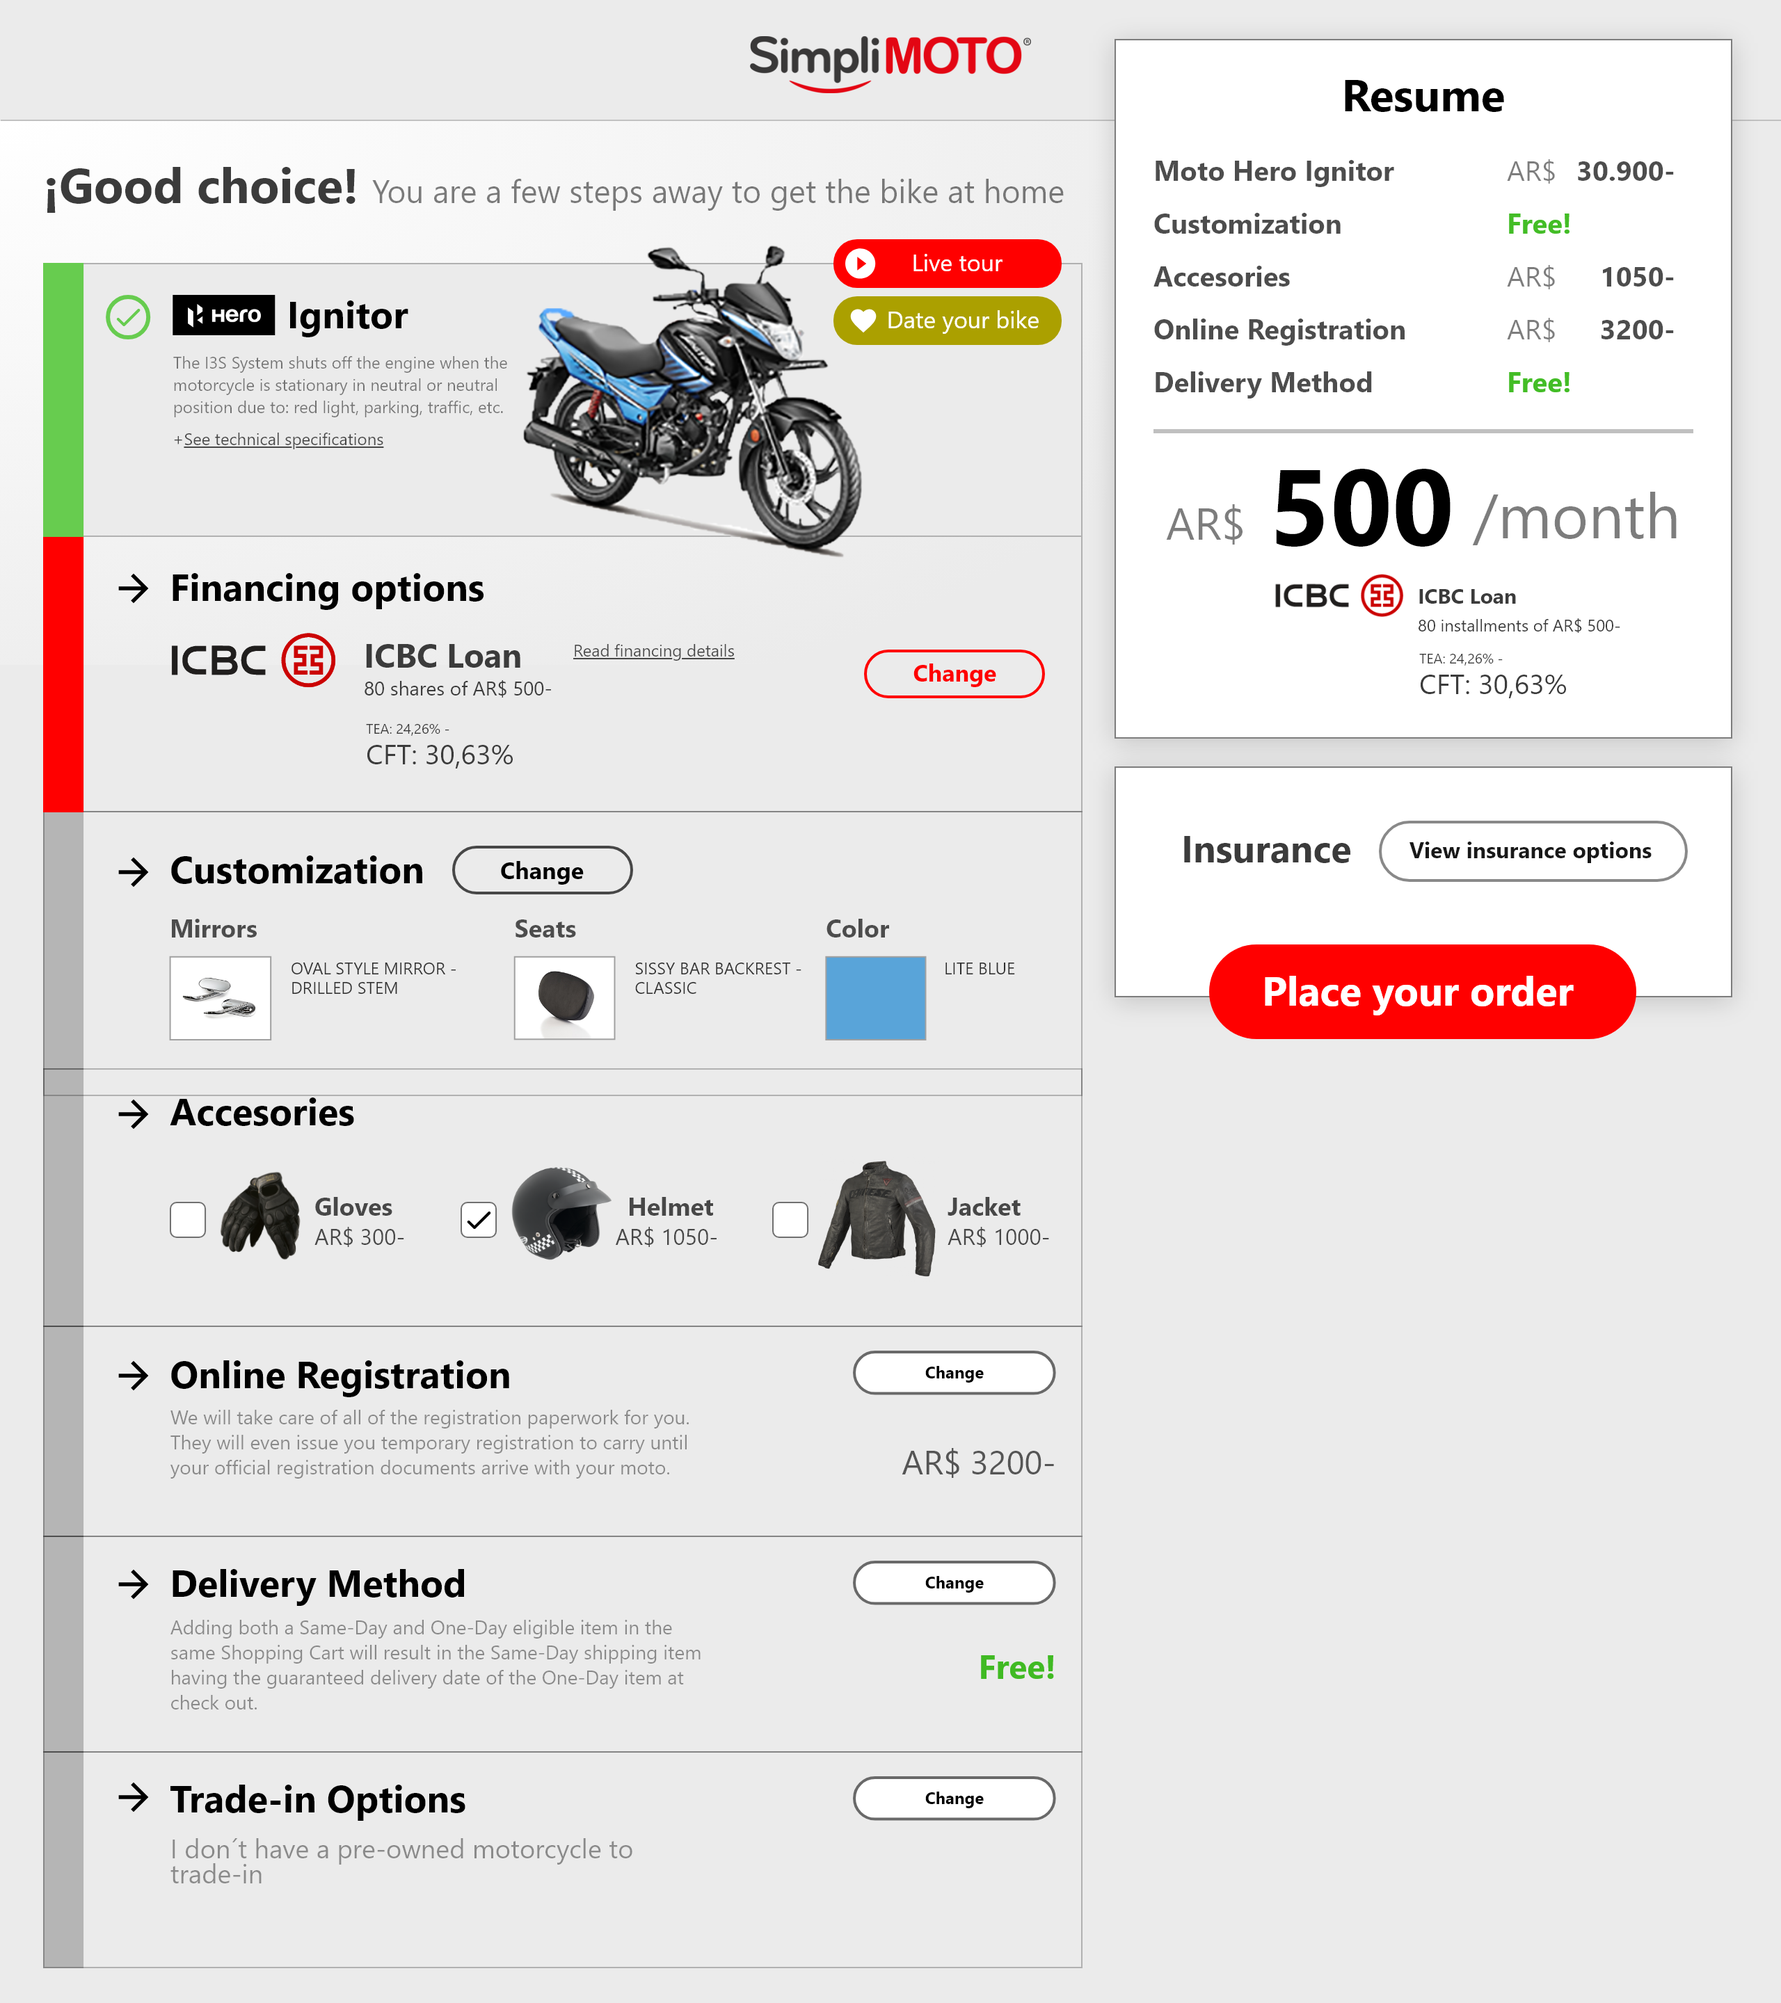
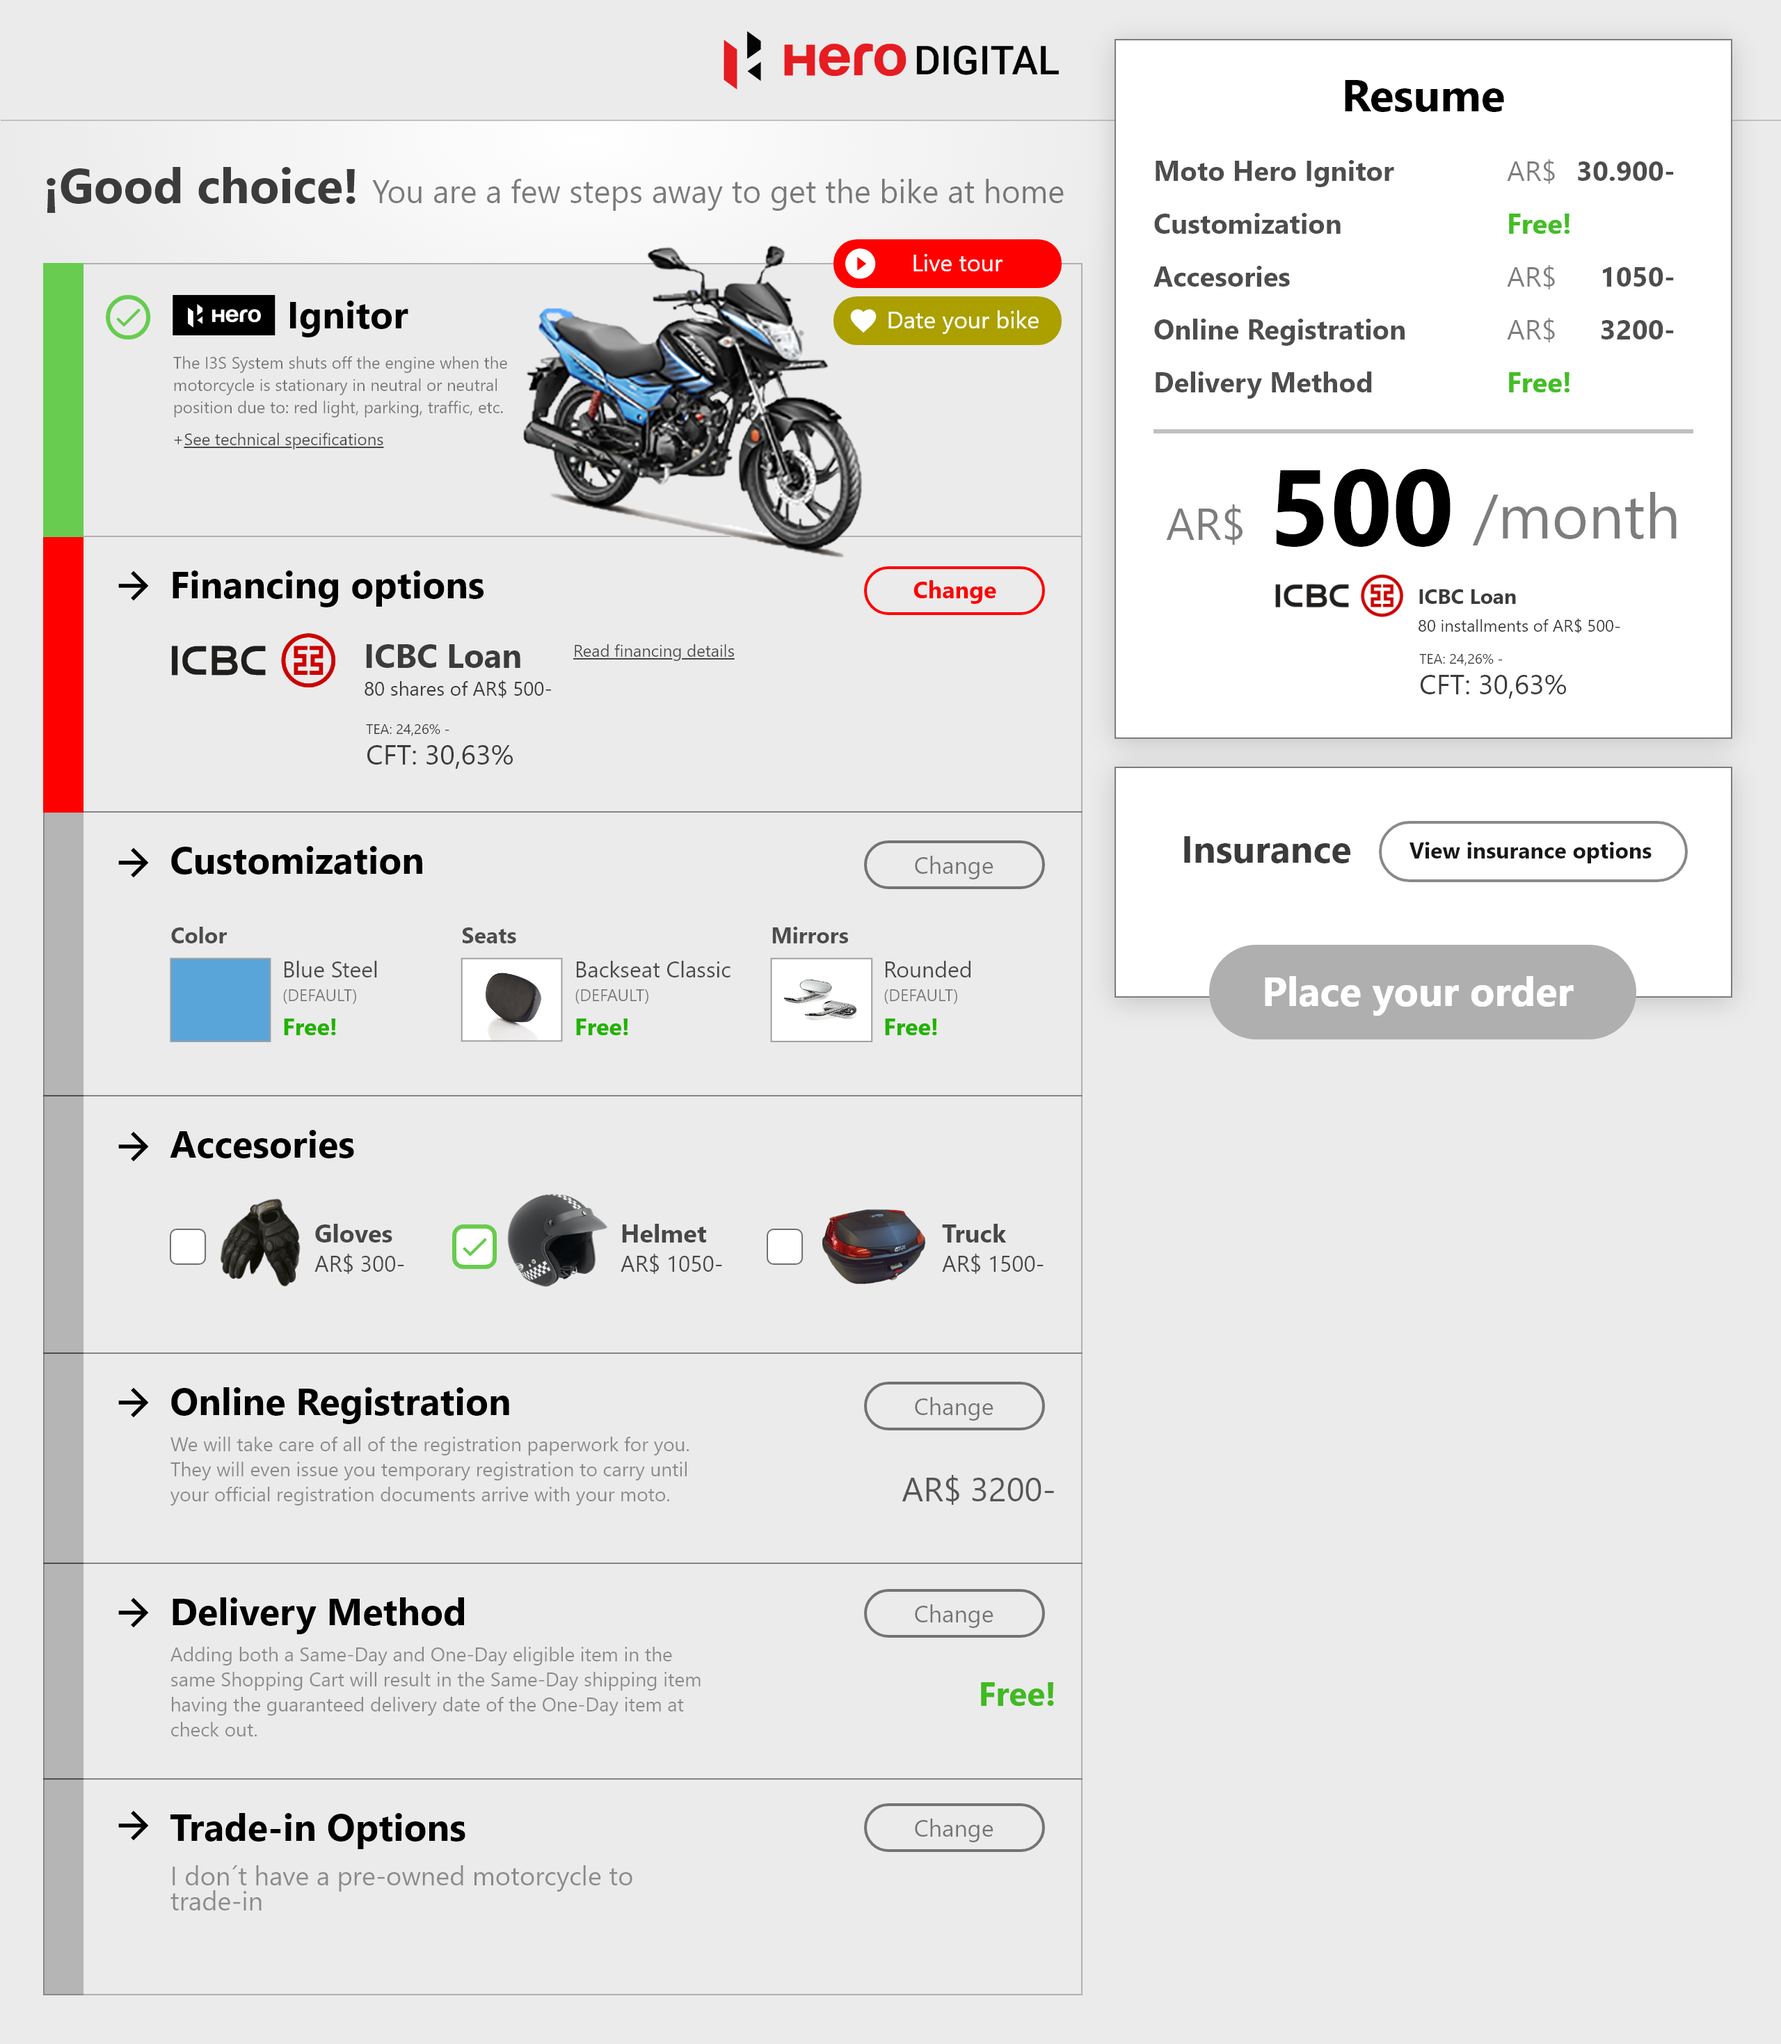
Routing between different dashboards

diff --git a/src/components/ImagePages/Dashboard01IMGPage.jsx b/src/components/ImagePages/Dashboard01IMGPage.jsx
@@ -4,28 +4,30 @@ import { Link } from 'react-router-dom';
 import imageUrl from './Dashboard01@2x.png';
 import IMGPage from './IMGPage';
 
+// In this dashboard no step is completed
+
 class Dashboard01IMGPage extends Component {
   render() {
     return (
       <IMGPage imgUrl={imageUrl}>
         <Link
-          to="customization-img"
-          style={{
-            position: 'absolute',
-            width: '145.83px',
-            height: '31.81px',
-            top: '602px',
-            left: '618px',
-          }}
-        />
-        <Link
-          to="dateyourbike-img"
+          to="livetour-img"
           style={{
             position: 'absolute',
             width: '172px',
             height: '37px',
-            top: '222px',
+            top: '180px',
             left: '626px',
+          }}
+        />
+        <Link
+          to="financing-img"
+          style={{
+            position: 'absolute',
+            width: '137px',
+            height: '39px',
+            top: '424px',
+            left: '649px',
           }}
         />
       </IMGPage>

diff --git a/src/components/App.jsx b/src/components/App.jsx
@@ -19,6 +19,7 @@ import DateYourBikeIMGPage from './ImagePages/DateYourBikeIMGPage';
 import LiveTourPresenterPage from './LiveTourPage/LiveTourPresenterPage';
 import LiveTourUserPage from './LiveTourPage/LiveTourUserPage';
 import BikeSentIMGPage from './ImagePages/BikeSentIMGPage';
+import Dashboard02IMGPage from './ImagePages/Dashboard02IMGPage';
 
 class App extends React.Component {
   render() {
@@ -30,6 +31,7 @@ class App extends React.Component {
           <Route path="/customization" component={CustomizationPage} />
           <Route path="/customization-img" component={CustomizationIMGPage} />
           <Route path="/dashboard-img" component={Dashboard01IMGPage} />
+          <Route path="/dashboard2-img" component={Dashboard02IMGPage} />
           <Route path="/home-img" component={HomeIMGPage} />
           <Route path="/financing-img" component={FinancingIMGPage} />
           <Route path="/financing-loading-img" component={FinancingIMGLoadingPage} />

diff --git a/src/components/ImagePages/FinancingIMGLoadingPage.jsx b/src/components/ImagePages/FinancingIMGLoadingPage.jsx
@@ -1,6 +1,7 @@
 import React, { Component } from 'react';
 import propTypes from 'prop-types';
 import { connect } from 'react-redux';
+import { Link } from 'react-router-dom';
 import { push } from 'react-router-redux';
 import imageUrl from './FinancingLoading.png';
 import IMGPage from './IMGPage';
@@ -32,6 +33,16 @@ class FinancingIMGLoadingPage extends Component {
             top: 300,
             left: 562,
             width: 200,
+          }}
+        />
+        <Link // cancel and go back to dashboard
+          to="/dashboard-img"
+          style={{
+            position: 'absolute',
+            width: '328px',
+            height: '42px',
+            left: '32px',
+            top: '20px',
           }}
         />
       </IMGPage>

diff --git a/src/components/ImagePages/FinancingIMGOptionsPage.jsx b/src/components/ImagePages/FinancingIMGOptionsPage.jsx
@@ -8,13 +8,23 @@ class FinancingIMGOptionsPage extends Component {
     return (
       <IMGPage imgUrl={imageUrl}>
         <Link
-          to="/dashboard-img"
+          to="/dashboard2-img"
           style={{
             position: 'absolute',
             width: '417px',
             height: '60px',
             top: '708px',
             left: '461px',
+          }}
+        />
+        <Link // cancel and go back to dashboard
+          to="/dashboard-img"
+          style={{
+            position: 'absolute',
+            width: '328px',
+            height: '42px',
+            left: '32px',
+            top: '20px',
           }}
         />
       </IMGPage>

diff --git a/src/components/ImagePages/Dashboard02IMGPage.jsx b/src/components/ImagePages/Dashboard02IMGPage.jsx
@@ -1,0 +1,28 @@
+import React, { Component } from 'react';
+import { Link } from 'react-router-dom';
+
+import imageUrl from './Dashboard02@2x.png';
+import IMGPage from './IMGPage';
+
+// In this dashboard only the financing step is completed
+
+class Dashboard02IMGPage extends Component {
+  render() {
+    return (
+      <IMGPage imgUrl={imageUrl}>
+        <Link
+          to="dateyourbike-img"
+          style={{
+            position: 'absolute',
+            width: '172px',
+            height: '37px',
+            top: '222px',
+            left: '626px',
+          }}
+        />
+      </IMGPage>
+    );
+  }
+}
+
+export default Dashboard02IMGPage;

diff --git a/src/components/ImagePages/BikeSentIMGPage.jsx b/src/components/ImagePages/BikeSentIMGPage.jsx
@@ -10,7 +10,7 @@ class BikeSentIMGPage extends Component {
     return (
       <IMGPage imgUrl={imageUrl}>
         <Link
-          to="/dashboard-img"
+          to="/dashboard2-img"
           style={{
             position: 'absolute',
             width: '369px',
@@ -18,10 +18,9 @@ class BikeSentIMGPage extends Component {
             left: '485px',
             top: '677px',
           }}
-          dfsdkj
         />
-        <Link
-          to="/dashboard-img"
+        <Link // cancel and go back to dashboard
+          to="/dashboard2-img"
           style={{
             position: 'absolute',
             width: '328px',

diff --git a/src/components/ImagePages/FinancingIMGPage.jsx b/src/components/ImagePages/FinancingIMGPage.jsx
@@ -59,6 +59,17 @@ class FinancingIMGPage extends Component {
             left: '559px',
           }}
         />
+        <Link // cancel and go back to dashboard
+          to="/dashboard-img"
+          style={{
+            position: 'absolute',
+            width: '328px',
+            height: '42px',
+            left: '32px',
+            top: '20px',
+          }}
+        />
+
       </IMGPage>
     );
   }

diff --git a/src/components/ImagePages/DateYourBikeIMGPage.jsx b/src/components/ImagePages/DateYourBikeIMGPage.jsx
@@ -38,7 +38,7 @@ class DateYourBike extends Component {
             top: '1064px',
           }}
         />
-        <Link
+        <Link // cancel and go back to dashboard
           to="/dashboard-img"
           style={{
             position: 'absolute',
